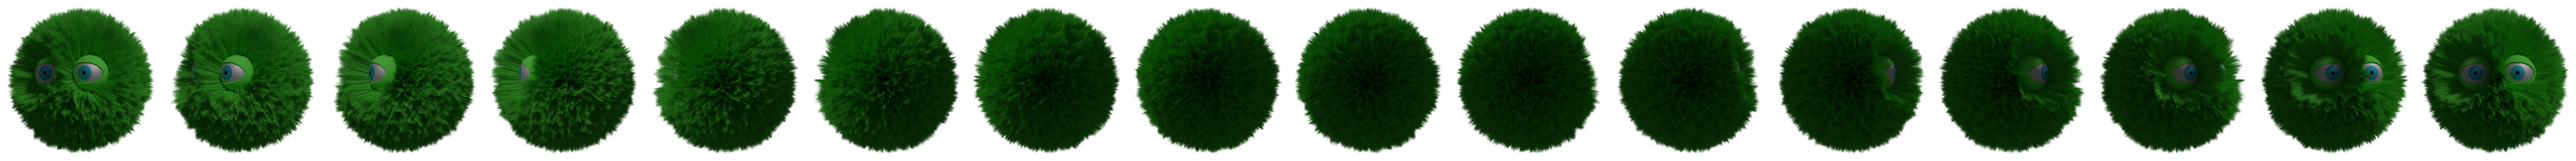
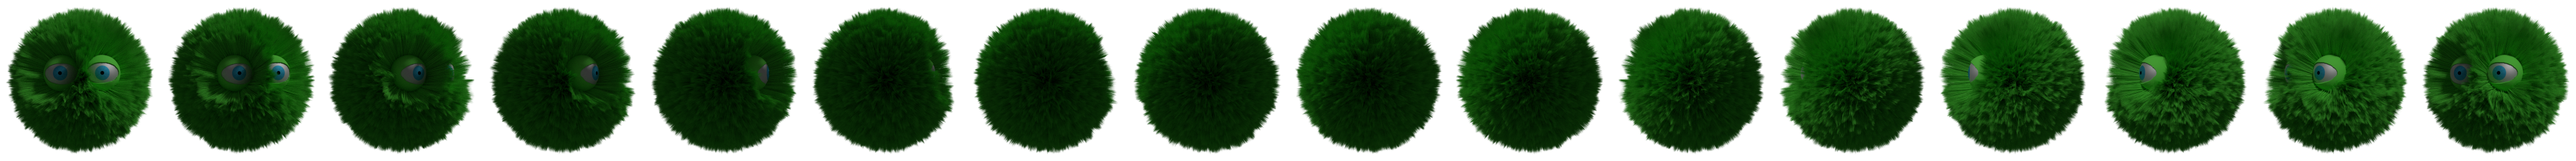
Scene changes and added set frame to animation player.

diff --git a/ENGIN/ENGIN_DEMO/source/Pseudo3D.cpp b/ENGIN/ENGIN_DEMO/source/Pseudo3D.cpp
@@ -31,7 +31,7 @@ namespace Engin
 			guiBatch.setSortMode(Renderer::TextureSortMode::FrontToBack);
 
 			
-			furball = Resources::ResourceManager::getInstance().load<Resources::Texture>("resources/furball_upside2_64.png");			
+			furball = Resources::ResourceManager::getInstance().load<Resources::Texture>("resources/furball_upside_64.png");			
 			doge1 = Resources::ResourceManager::getInstance().load<Resources::Texture>("resources/wall_brick_tile_64.png");
 			doge2 = Resources::ResourceManager::getInstance().load<Resources::Texture>("resources/wall_warning_tile_64.png");
 			doge3 = Resources::ResourceManager::getInstance().load<Resources::Texture>("resources/wall_pine_tile_64.png");
@@ -48,7 +48,7 @@ namespace Engin
 			animFurball360 = Resources::ResourceManager::getInstance().load<Resources::Animation>("resources/animations/furball360.xml");
 			animPlayer.setAnimation(animFurball360);
 			animPlayer.loopable(true);
-			animPlayer.start();
+			animPlayer.pause();
 
 			font = Resources::ResourceManager::getInstance().load<Resources::Font>("resources/arial.ttf");
 			font->setPtSize(40);
@@ -70,18 +70,22 @@ namespace Engin
 
 			moveSpeed = 0.11f;
 			rotSpeed = 0.02f;
-			player = glm::vec2(22.0f, 12.0f);
-			
-			sprite = glm::vec2(12.0f, 12.0f);
-			sprite1 = glm::vec2(12.0f, 18.3f);
-			sprite2 = glm::vec2(13.5f, 12.7f);
-			sprite3 = glm::vec2(14.0f, 12.0f);
-			sprite4 = glm::vec2(15.0f, 13.2f);
-			sprite5 = glm::vec2(16.0f, 12.0f);
-			sprite6 = glm::vec2(18.0f, 13.0f);
-			sprite7 = glm::vec2(12.4f, 14.9f);
-			sprite8 = glm::vec2(23.0f, 15.0f);
-			sprite9 = glm::vec2(12.199f, 16.2f);
+			player = glm::vec3(22.0f, 12.0f, 0.0f);
+
+			dirX = -1, dirY = 0; //initial direction vector
+			planeX = 0.0f, planeY = 0.5; //the 2d raycaster version of camera plane
+
+			//adding sprites
+			sprite = glm::vec3(12.0f, 12.0f, 0.0f);
+			sprite1 = glm::vec3(12.0f, 18.3f, 0.0f);
+			sprite2 = glm::vec3(13.5f, 12.7f, 0.0f);
+			sprite3 = glm::vec3(14.0f, 12.0f, 0.0f);
+			sprite4 = glm::vec3(15.0f, 13.2f, 0.0f);
+			sprite5 = glm::vec3(16.0f, 12.0f, 0.0f);
+			sprite6 = glm::vec3(18.0f, 13.0f, 0.0f);
+			sprite7 = glm::vec3(12.4f, 14.9f, 0.0f);
+			sprite8 = glm::vec3(23.0f, 15.0f, 0.0f);
+			sprite9 = glm::vec3(12.199f, 16.2f, 0.0f);
 			spriteContainer.push_back(sprite);
 			spriteContainer.push_back(sprite1);
 			spriteContainer.push_back(sprite2);
@@ -103,9 +107,6 @@ namespace Engin
 			}
 
 			DDASpriteDrawData.resize(spriteContainer.size());
-
-			dirX = -1, dirY = 0; //initial direction vector
-			planeX = 0.0f, planeY = 0.5; //the 2d raycaster version of camera plane
 
 			//filling world with 0
 			for (int i = 0; i < 25; i++)
@@ -188,8 +189,20 @@ namespace Engin
 				if (objectTiles[int(player.x - dirX * moveSpeed)][int(player.y)] == false) player.x -= dirX * moveSpeed;
 				if (objectTiles[int(player.x)][int(player.y - dirY * moveSpeed)] == false) player.y -= dirY * moveSpeed;
 			}
-			//rotate to the right   
+			//strafe left if no wall in left of you			
+			if (engine->keyboardInput->keyIsPressed(HID::KEYBOARD_A))
+			{
+				if (objectTiles[int(player.x - planeX * moveSpeed)][int(player.y)] == false) player.x -= planeX * moveSpeed;
+				if (objectTiles[int(player.x)][int(player.y - planeY * moveSpeed)] == false) player.y -= planeY * moveSpeed;
+			}
+			//strafe right if no wall in right of you			
 			if (engine->keyboardInput->keyIsPressed(HID::KEYBOARD_D))
+			{
+				if (objectTiles[int((player.x + planeX * moveSpeed))][int(player.y)] == false) player.x += planeX * moveSpeed;
+				if (objectTiles[int(player.x)][int(player.y + planeY * moveSpeed)] == false) player.y += planeY * moveSpeed;
+			}
+			//rotate to the right   
+			if (engine->keyboardInput->keyIsPressed(HID::KEYBOARD_RIGHT))
 			{
 				//both camera direction and camera plane must be rotated
 				double oldDirX = dirX;
@@ -200,7 +213,7 @@ namespace Engin
 				planeY = oldPlaneX * sin(-rotSpeed) + planeY * cos(-rotSpeed);
 			}
 			//rotate to the left
-			if (engine->keyboardInput->keyIsPressed(HID::KEYBOARD_A))
+			if (engine->keyboardInput->keyIsPressed(HID::KEYBOARD_LEFT))
 			{
 				//both camera direction and camera plane must be rotated
 				double oldDirX = dirX;
@@ -211,20 +224,24 @@ namespace Engin
 				planeY = oldPlaneX * sin(rotSpeed) + planeY * cos(rotSpeed);
 			}
 #pragma endregion
-			alpha += 0.01;
-			animPlayer.update();
-
+			alpha += 0.01;			
+			
 			//Raycast calculations.
 			DDA();
 			DDADrawSprites();
 
+			//Saving player rotation
+			player.z = -glm::atan(dirX, dirY); //check camera.cpp rotation direction
 			
+			//rotating sprite
+			spriteContainer[5].z += 0.01;
+
 			//2d camera
 			camera2->setPositionRotationOrigin((player.x*tileSize2d) + 800, (player.y*tileSize2d));
-			camera2->setRotation(glm::degrees(glm::atan(-dirX, dirY)));
+			camera2->setRotation(glm::degrees(player.z));
 
 			//Information		
-			textCreator3.createTextTexture(font, "WASD " + std::to_string(player.x) + " " + std::to_string(player.y), 255, 100, 0);
+			textCreator3.createTextTexture(font, "WASD + arrows " + std::to_string(player.x) + " " + std::to_string(player.y), 255, 100, 0);
 			text3 = textCreator3.getTexture();
 			myTimer.pause();
 			textCreator.createTextTexture(font, "Update calculation time: " + std::to_string(myTimer.getLocalTime()) + " ms", 255, 100, 0);
@@ -238,6 +255,7 @@ namespace Engin
 		void Pseudo3D::draw()
 		{
 			//DDA draw test
+#pragma region WallTileDraw
 			for (int i = 0; i < DDAlines.size(); i++)
 			{
 				if (DDAlines[i][2] > 0)
@@ -252,7 +270,7 @@ namespace Engin
 					}
 
 
-					switch (DDAlines[i][3])
+					switch (int(DDAlines[i][3]))
 					{
 					case 1:
 					{
@@ -318,12 +336,13 @@ namespace Engin
 					}
 				}
 			}
-
+#pragma endregion
+			
 			if (DDASpriteDrawData.size() > 0)
 			{
-				for (int i = 0; i < spriteContainer.size(); i++)
+				for (int i = 0; i < DDASpriteDrawData.size(); i++)
 				{
-					if (DDASpriteDrawData[i][0] > -800 && DDASpriteDrawData[i][0] < (800 + tileSize) && DDASpriteDrawData[i][3]>0)
+					if (DDASpriteDrawData[i][0] > -w && DDASpriteDrawData[i][0] < (w + tileSize) && DDASpriteDrawData[i][3]>0)
 					{
 						if (DDASpriteDrawData[i][1] <= 0)
 						{
@@ -331,8 +350,9 @@ namespace Engin
 						}
 						else
 						{
-							depth = (1 / DDASpriteDrawData[i][1]);
-						}
+							depth = (1.0f / DDASpriteDrawData[i][1]);
+						}		
+						animPlayer.setCurrentFrame(int(DDASpriteDrawData[i][4]));
 						alphaBatch.draw(animPlayer.getTexture(), animPlayer.getCurrentFrameTexCoords(),
 							DDASpriteDrawData[i][0] - 1600, DDASpriteDrawData[i][1],
 							256, 256, 0.0f, 0.0f, 0.0f,
@@ -378,7 +398,7 @@ namespace Engin
 			}
 
 			//player
-			alphaBatch.draw(furball, &glm::vec4(0.0f, 0.0f, furball->getWidth(), furball->getHeight()), player.x*tileSize2d + 800, player.y*tileSize2d, furball->getWidth(), furball->getHeight(), tileSize2d / 2, tileSize2d / 2, camera2->getRotation(), 1.0f, Renderer::clrRed, 1.0f, 0.9f);
+			alphaBatch.draw(furball, &glm::vec4(0.0f, 0.0f, furball->getWidth(), furball->getHeight()), player.x*tileSize2d + 800, player.y*tileSize2d, furball->getWidth(), furball->getHeight(), tileSize2d / 2, tileSize2d / 2, camera2->getRotation()+90, 1.0f, Renderer::clrRed, 1.0f, 0.9f);
 
 			//---------------
 
@@ -544,7 +564,91 @@ namespace Engin
 				spriteScreenX = (w / 2)*(1 + transform.x / transform.y);
 				spriteXout = -spriteHeightWidth / 2 + spriteScreenX;
 
-				DDASpriteDrawData[i] = glm::vec4(spriteXout,spriteYout,spriteScale,transform.y);
+				//Calculating sprite side, -90 degrees correction has to made.				
+				spriteAngle = (glm::atan(-spriteX , -spriteY) - glm::radians(90.0f));
+				if (spriteAngle < 0.0f)
+				{
+					spriteAngle += glm::radians(360.0f);
+				}
+
+				//Sprites own facing changes the angle. TODO: fix
+				spriteFacing = glm::mod((spriteContainer[i].z + glm::radians(360.0f)), glm::radians(360.0f));
+				spriteAngle -= spriteFacing;
+				
+#pragma region AngleSideCheck
+				if (spriteAngle >= glm::radians(348.75f) && spriteAngle <= glm::radians(360.0f) || spriteAngle >= 0.0f && spriteAngle <= glm::radians(11.25f))
+				{
+					spriteAnimIndex = 0;
+				}
+				else if (spriteAngle > glm::radians(11.25f) && spriteAngle <= glm::radians(33.75f))
+				{
+					spriteAnimIndex = 1;
+				}
+				else if (spriteAngle > glm::radians(33.75f) && spriteAngle <= glm::radians(56.25f))
+				{
+					spriteAnimIndex = 2;
+				}
+				else if (spriteAngle > glm::radians(56.25f) && spriteAngle <= glm::radians(78.75f))
+				{
+					spriteAnimIndex = 3;
+				}
+				else if (spriteAngle > glm::radians(78.75f) && spriteAngle <= glm::radians(101.25f))
+				{
+					spriteAnimIndex = 4;
+				}
+				else if (spriteAngle > glm::radians(101.25f) && spriteAngle <= glm::radians(123.75f))
+				{
+					spriteAnimIndex = 5;
+				}
+				else if (spriteAngle > glm::radians(123.75f) && spriteAngle <= glm::radians(146.25f))
+				{
+					spriteAnimIndex = 6;
+				}
+				else if (spriteAngle > glm::radians(146.25f) && spriteAngle <= glm::radians(168.75f))
+				{
+					spriteAnimIndex = 7;
+				}
+				else if (spriteAngle > glm::radians(168.75f) && spriteAngle <= glm::radians(191.25f))
+				{
+					spriteAnimIndex = 8;
+				}
+				else if (spriteAngle > glm::radians(191.25f) && spriteAngle <= glm::radians(213.75f))
+				{
+					spriteAnimIndex = 9;
+				}
+				else if (spriteAngle > glm::radians(213.75f) && spriteAngle <= glm::radians(236.25f))
+				{
+					spriteAnimIndex = 10;
+				}
+				else if (spriteAngle > glm::radians(236.25f) && spriteAngle <= glm::radians(258.75f))
+				{
+					spriteAnimIndex = 11;
+				}
+				else if (spriteAngle > glm::radians(258.75f) && spriteAngle <= glm::radians(281.25f))
+				{
+					spriteAnimIndex = 12;
+				}
+				else if (spriteAngle > glm::radians(281.25f) && spriteAngle <= glm::radians(303.75f))
+				{
+					spriteAnimIndex = 13;
+				}
+				else if (spriteAngle > glm::radians(303.75f) && spriteAngle <= glm::radians(326.25f))
+				{
+					spriteAnimIndex = 14;
+				}
+				else
+				{
+					spriteAnimIndex = 15;
+				}
+#pragma endregion
+
+
+				//Saving data
+				DDASpriteDrawData[i][0] = spriteXout;
+				DDASpriteDrawData[i][1] = spriteYout;
+				DDASpriteDrawData[i][2] = spriteScale;
+				DDASpriteDrawData[i][3] = transform.y;
+				DDASpriteDrawData[i][4] = spriteAnimIndex;
 			}
 		}
 	}

diff --git a/ENGIN/ENGIN_DEMO/include/Pseudo3D.h b/ENGIN/ENGIN_DEMO/include/Pseudo3D.h
@@ -69,18 +69,18 @@ namespace Engin
 			Core::Timer myTimer;
 
 			std::array<std::array<int,25>,25> objectTiles; //Notice the world size mapX and mapY
-			std::vector<glm::vec2> spriteContainer;
-			glm::vec2 player;
-			glm::vec2 sprite;
-			glm::vec2 sprite1;
-			glm::vec2 sprite2;
-			glm::vec2 sprite3;
-			glm::vec2 sprite4;
-			glm::vec2 sprite5;
-			glm::vec2 sprite6;
-			glm::vec2 sprite7;
-			glm::vec2 sprite8;
-			glm::vec2 sprite9;
+			std::vector<glm::vec3> spriteContainer;
+			glm::vec3 player;
+			glm::vec3 sprite;
+			glm::vec3 sprite1;
+			glm::vec3 sprite2;
+			glm::vec3 sprite3;
+			glm::vec3 sprite4;
+			glm::vec3 sprite5;
+			glm::vec3 sprite6;
+			glm::vec3 sprite7;
+			glm::vec3 sprite8;
+			glm::vec3 sprite9;
 			
 			float alpha;
 
@@ -105,9 +105,9 @@ namespace Engin
 
 			int DDAtexture;
 			int drawColor;
-			std::array<std::array<int,5>, 400> DDAlines; //change DDAlines size accordingly
-			std::vector<glm::vec4> DDASpriteDrawData;
-			std::vector<int> DDAlinesTexX;
+			std::array<std::array<double,5>, 400> DDAlines; //change DDAlines size accordingly
+			std::vector<std::array<double,5>> DDASpriteDrawData;
+			int spriteAnimIndex;
 			double depth;
 
 			double cameraX; //x-coordinate in camera space
@@ -150,6 +150,8 @@ namespace Engin
 			double spriteScreenX;
 			double spriteScale;
 			double spriteHeightWidth;
+			double spriteFacing;
+			double spriteAngle;
 
 			float moveSpeed;
 			float rotSpeed;			

diff --git a/ENGIN/ENGIN/include/Engin/Game/AnimationPlayer.h b/ENGIN/ENGIN/include/Engin/Game/AnimationPlayer.h
@@ -26,6 +26,7 @@ namespace Engin
 			void start() { timer.start(); }
 			void stop() { timer.stop(); currentFrame = 0; }
 			void loopable(bool value) { loop = value; }
+			void setCurrentFrame(int frame){ currentFrame = frame; };
 		private:
 			Resources::Animation* animation;
 			Core::Timer timer;
